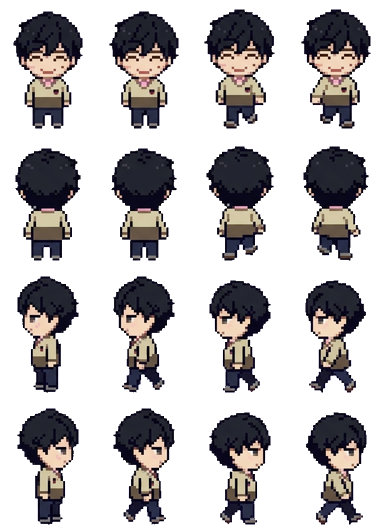
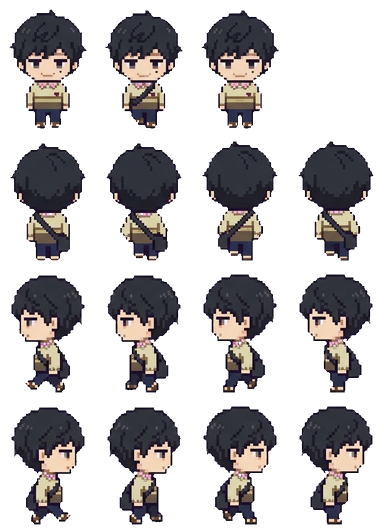
Redraw Tanaka Yoichi in the shared art style; grid-line removal no longer cuts dark hair
Claude-Session: https://claude.ai/code/session_01KaPsBYLrtbRfMYNG2xeBCK

diff --git a/docs/app.js b/docs/app.js
@@ -75,7 +75,7 @@ function spr(cat, k, col, sc) {
   return `<div class="clip" style="width:${it[2] * sc}px;height:${it[3] * sc}px;POS"><img class="px" src="assets/decor/${cat}.png" alt="" style="width:${S.sw * sc}px;height:${S.sh * sc}px;margin-left:${-col * S.cw * sc}px;margin-top:${-i * S.ch * sc}px"></div>`;
 }
 const icon = (k, sz) => `<span class="itm" style="width:${sz}px;height:${sz}px"><img class="px" src="assets/ui/items.png" alt="" style="width:${IT.length * sz}px;height:${sz}px;margin-left:${-ITM[k].i * sz}px"></span>`;
-const face = (id, w) => { const s = w / 96; return `<img class="px" src="assets/ch/${id}.webp?v=32" alt="" style="position:absolute;width:${384 * s}px;height:${528 * s}px;left:${-(96 * s - w) / 2}px;top:0;max-width:none">`; };
+const face = (id, w) => { const s = w / 96; return `<img class="px" src="assets/ch/${id}.webp?v=33" alt="" style="position:absolute;width:${384 * s}px;height:${528 * s}px;left:${-(96 * s - w) / 2}px;top:0;max-width:none">`; };
 
 // ---------- 저장 ----------
 let fb = null, user = null, S = null, saveT = null;
@@ -143,7 +143,7 @@ function sleepHTML(id, r, dy) {
   const pos = r.a && r.a[0] === 'bed' ? 'left:3%;bottom:20%' : r.b && r.b[0] === 'bed' ? 'right:3%;bottom:20%' : 'left:calc(50% - 44px);bottom:6%';
   const s = 36 / 96;
   return `<div style="position:absolute;width:88px;height:56px;${pos};z-index:${dy ? 4 : 5};${dy ? `transform:translate(12px,${dy}px)` : ''}"><div style="position:absolute;inset:0;filter:brightness(.22)">
-    <div style="position:absolute;left:11px;top:1px;width:36px;height:50px;overflow:hidden;transform:rotate(-90deg)"><img class="px" src="assets/ch/${id}.webp?v=32" alt="" style="width:${384 * s}px;height:${528 * s}px;max-width:none;margin-top:${-132 * s}px"></div>
+    <div style="position:absolute;left:11px;top:1px;width:36px;height:50px;overflow:hidden;transform:rotate(-90deg)"><img class="px" src="assets/ch/${id}.webp?v=33" alt="" style="width:${384 * s}px;height:${528 * s}px;max-width:none;margin-top:${-132 * s}px"></div>
     <div style="position:absolute;left:19px;top:19px;width:67px;height:29px;border:2px solid var(--ink);border-radius:8px 6px 4px 4px;background:#8ccff5;background-image:repeating-linear-gradient(90deg,transparent 0 10px,rgba(255,255,255,.5) 10px 13px)"></div></div>
     ${dy ? '' : '<span class="emo" style="left:8px;top:-22px;color:#5b6bd6">Z z z</span>'}</div>`;
 }
@@ -153,8 +153,8 @@ function roomHTML(id, o, scale) {
     <div class="floor" style="background-color:${PAL[r.fc][1]};background-image:${tileUrl('floor', r.fl)}"></div>
     ${slot('deco', r.dc, 'left:6%;top:6%')}${slot('furn', r.a, 'left:3%;bottom:20%')}${slot('furn', r.b, 'right:3%;bottom:20%')}${slot('prop', r.pr, 'left:28%;bottom:4%;z-index:2')}
     ${id && o.sleeping && g ? sleepHTML(g, r, -16) : ''}${id && o.sleeping ? sleepHTML(id, r) : ''}${id && o.job ? `<div style="position:absolute;left:50%;top:38%;transform:translateX(-50%);z-index:5;background:#fff;border:3px solid var(--ink);border-radius:10px;padding:6px 10px;font-size:11px;text-align:center;line-height:1.5"><img src="assets/ui/ic_job.png" alt="" style="width:18px;vertical-align:-4px"> ${WORK[id] ? WORK[id][1] : esc(JOB_NAME[id]) + ' 알바 중'}${g ? `<br><small>${esc(nameOf(g))}도 같이</small>` : ''}<br><b id="jobleft">${timeLeft(o.job.until)}</b></div>` : ''}
-    ${id ? `<div class="shadow" id="shd" ${o.sleeping || o.job ? 'style="display:none"' : ''}></div><div class="man" id="man" ${o.sleeping || o.job ? 'style="display:none"' : ''}><img class="px" src="assets/ch/${id}.webp?v=32" alt="${esc(nameOf(id))}"></div><span class="emo" id="emo" hidden></span><span class="mumble" id="mum" hidden></span>` : ''}
-    ${g ? `<div class="shadow" id="gshd" ${hideG}></div><div class="man" id="gman" ${hideG}><img class="px" src="assets/ch/${g}.webp?v=32" alt="${esc(nameOf(g))}"></div><span class="emo" id="gemo" hidden></span><span class="mumble gmum" id="gmum" hidden></span>` : ''}
+    ${id ? `<div class="shadow" id="shd" ${o.sleeping || o.job ? 'style="display:none"' : ''}></div><div class="man" id="man" ${o.sleeping || o.job ? 'style="display:none"' : ''}><img class="px" src="assets/ch/${id}.webp?v=33" alt="${esc(nameOf(id))}"></div><span class="emo" id="emo" hidden></span><span class="mumble" id="mum" hidden></span>` : ''}
+    ${g ? `<div class="shadow" id="gshd" ${hideG}></div><div class="man" id="gman" ${hideG}><img class="px" src="assets/ch/${g}.webp?v=33" alt="${esc(nameOf(g))}"></div><span class="emo" id="gemo" hidden></span><span class="mumble gmum" id="gmum" hidden></span>` : ''}
     ${o.sleeping ? `<div class="night"></div><div class="sleepleft">쿨쿨 · 일어나기까지 <b id="sleepleft">${timeLeft(wakeAt(o)).replace(' 남음', '')}</b></div>` : ''}
   </div>`;
 }
@@ -167,7 +167,7 @@ function meterHTML(o) {
 const ic = (act, img, label, pressed) => `<button class="ic" data-act="${act}" ${pressed ? 'aria-pressed="true"' : ''}><img src="assets/ui/ic_${img}.png?v=2" alt="">${label}</button>`;
 
 let dropStyle = null; const cheat = {};
-const APP_V = 104, COUPONS = { NINOGUYA: 3000 };
+const APP_V = 105, COUPONS = { NINOGUYA: 3000 };
 // 쿠폰 입력 정리: 한글 자판 상태로 친 글자(ㅜㅑㅜㅐ혀ㅛㅁ)도 영어 자판 글자로 바꾸고, 대소문자·띄어쓰기·마침표는 무시해요
 const KEY = { ㄱ: 'r', ㄲ: 'R', ㄴ: 's', ㄷ: 'e', ㄸ: 'E', ㄹ: 'f', ㅁ: 'a', ㅂ: 'q', ㅃ: 'Q', ㅅ: 't', ㅆ: 'T', ㅇ: 'd', ㅈ: 'w', ㅉ: 'W', ㅊ: 'c', ㅋ: 'z', ㅌ: 'x', ㅍ: 'v', ㅎ: 'g',
   ㅏ: 'k', ㅐ: 'o', ㅑ: 'i', ㅒ: 'O', ㅓ: 'j', ㅔ: 'p', ㅕ: 'u', ㅖ: 'P', ㅗ: 'h', ㅘ: 'hk', ㅙ: 'ho', ㅚ: 'hl', ㅛ: 'y', ㅜ: 'n', ㅝ: 'nj', ㅞ: 'np', ㅟ: 'nl', ㅠ: 'b', ㅡ: 'm', ㅢ: 'ml', ㅣ: 'l',
@@ -407,7 +407,7 @@ function startTrip(k) {
   if (tg) lines[1] = `${nameOf(tg)}: ${withHim(sub(pick(GLX(tg).trip), o, c.n), tg)}`;
   const n = (FR[id] || [4, 4, 4, 4])[3], el = document.createElement('div'); el.className = 'tripview';
   el.innerHTML = `<div class="tsay"> </div><div class="tstage" style="background-image:url(assets/travel/${k}.png?v=2)"><div class="tplace">${esc(c.n)}</div>
-    <div class="twalker"><img class="px" src="assets/ch/${id}.webp?v=32" alt=""></div>${tg ? `<div class="twalker tgirl"><img class="px" src="assets/ch/${tg}.webp?v=32" alt=""></div>` : ''}<span class="emo tjoy">♪</span></div>
+    <div class="twalker"><img class="px" src="assets/ch/${id}.webp?v=33" alt=""></div>${tg ? `<div class="twalker tgirl"><img class="px" src="assets/ch/${tg}.webp?v=33" alt=""></div>` : ''}<span class="emo tjoy">♪</span></div>
     <div class="tbar"><i></i></div><button class="btn white tskip" data-tskip="1">바로 돌아오기</button>`;
   document.body.appendChild(el);
   const gimg = el.querySelector('.tgirl img'), gn = tg ? (FR[tg] || [4, 4, 4, 4])[3] : 1;
@@ -636,7 +636,7 @@ setInterval(() => { if (S && user) { tickTime(); save(); } }, 60000);
     if (nv > APP_V && !location.search.includes('u=' + nv)) { location.replace(location.pathname + '?u=' + nv); return; }
   } catch { }
   app.innerHTML = '<div class="start"><div class="egg"><div class="scr"></div></div><div class="note">불러오는 중....</div></div>';
-  const [c, t, f, it, mu, ct, tv, gl, sts] = await Promise.all(['data/chars.json', 'data/talk.json', 'data/frames.json', 'data/items.json', 'data/mumble.json', 'data/countries.json', 'data/travel.json', 'data/girls.json', 'data/sets.json'].map(u => fetch(u + '?v=104').then(r => r.ok ? r.json() : {})));
+  const [c, t, f, it, mu, ct, tv, gl, sts] = await Promise.all(['data/chars.json', 'data/talk.json', 'data/frames.json', 'data/items.json', 'data/mumble.json', 'data/countries.json', 'data/travel.json', 'data/girls.json', 'data/sets.json'].map(u => fetch(u + '?v=105').then(r => r.ok ? r.json() : {})));
   CH = c; CHM = Object.fromEntries(c.map(x => [x.id, x])); TALK = t; FR = f; IT = it; ITM = Object.fromEntries(it.map(x => [x.k, x])); MUM = mu; CTRY = ct; TRV = tv; GL = Array.isArray(gl) ? gl : []; SETS = Array.isArray(sts) ? sts : []; GLM = Object.fromEntries(GL.map(x => [x.id, x]));
   try { await initFirebase(); } catch (e) { console.warn('Firebase 연결 실패, 기기 저장으로', e); fb = null; }
   if (fb) {

diff --git a/docs/index.html b/docs/index.html
@@ -18,6 +18,6 @@
 <main id="app" aria-live="polite"></main>
 <div id="toast" role="status" hidden></div>
 <script src="firebase-config.js?v=3"></script>
-<script type="module" src="app.js?v=104"></script>
+<script type="module" src="app.js?v=105"></script>
 </body>
 </html>

diff --git a/tk_magenta.py b/tk_magenta.py
@@ -30,8 +30,8 @@ def key(a):
     mag |= (np.minimum(R, B) - G > 45) & (np.abs(R - B) < 60) & (B > 90)   # 다리 사이에 낀 어두운 마젠타
     fg = ~mag
     dk = rgb.max(2) < 90   # 칸을 나누는 검은 격자선(가로·세로로 길게 이어진 선)은 배경으로
-    for y in np.where(dk.mean(1) > .6)[0]: fg[max(0, y - 1):y + 2, :] = False
-    for x in np.where(dk.mean(0) > .6)[0]: fg[:, max(0, x - 1):x + 2] = False
+    for y in np.where(dk.mean(1) > .9)[0]: fg[max(0, y - 1):y + 2, :] = False
+    for x in np.where(dk.mean(0) > .9)[0]: fg[:, max(0, x - 1):x + 2] = False
     lab, n = ndimage.label(fg)
     if n > 1:   # 작은 부스러기 버리기
         sz = ndimage.sum(fg, lab, range(1, n + 1)); fg &= np.isin(lab, 1 + np.where(sz >= max(40, sz.max() * .02))[0])
